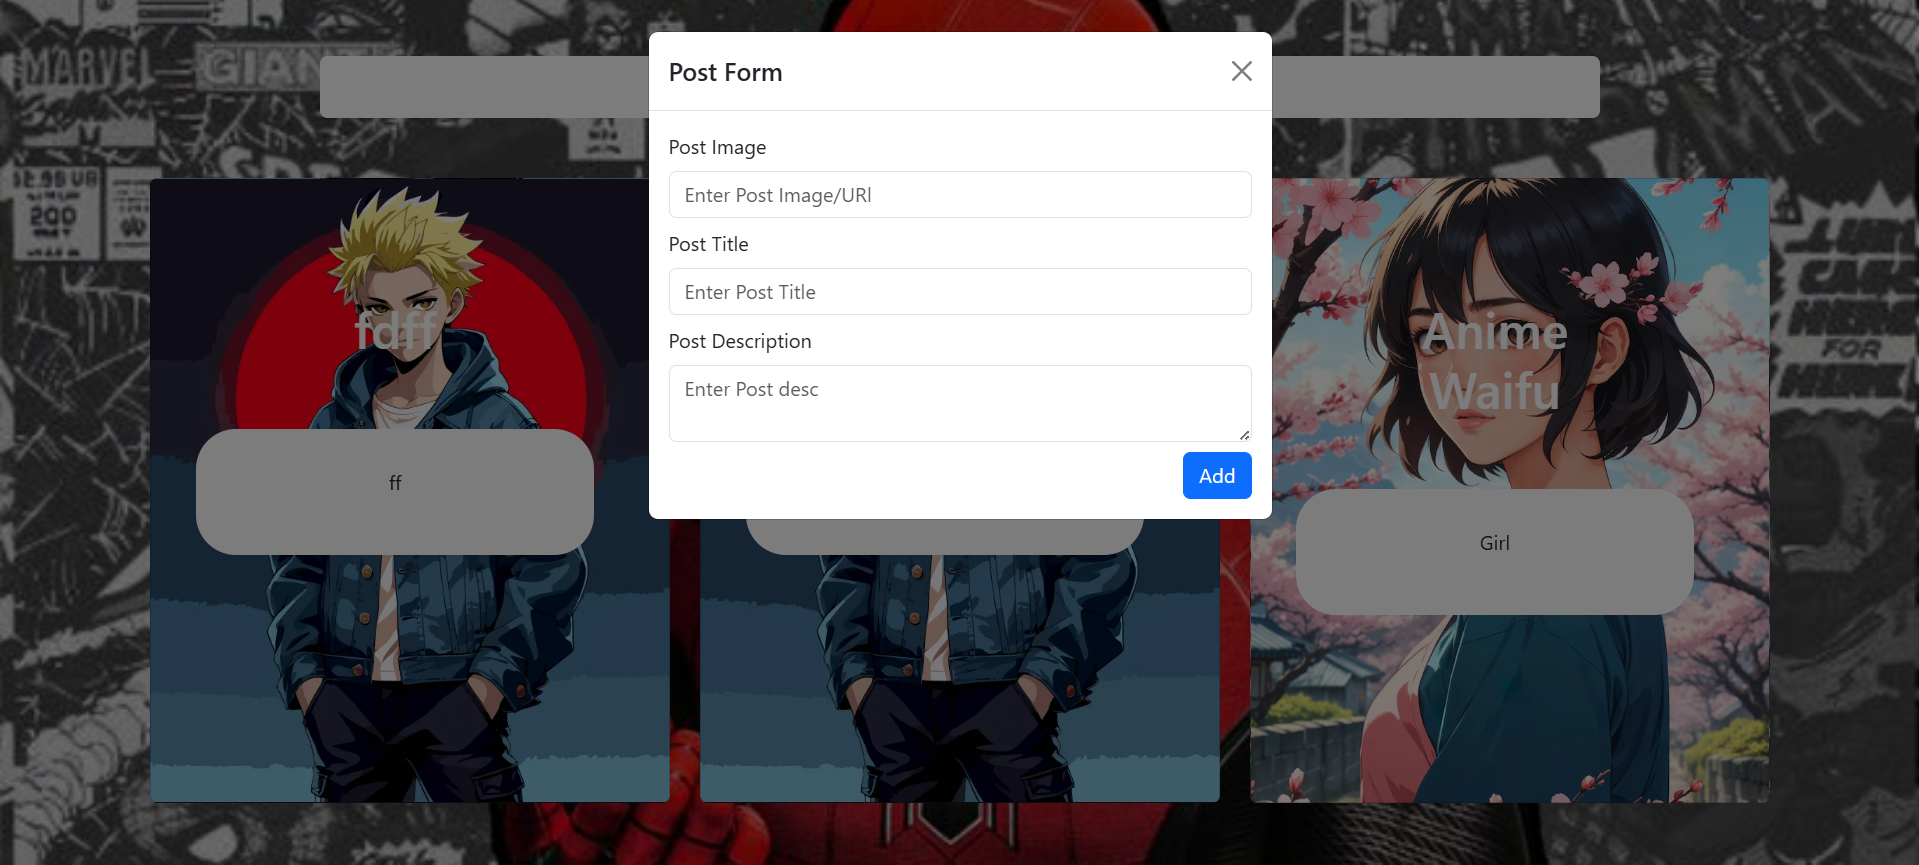
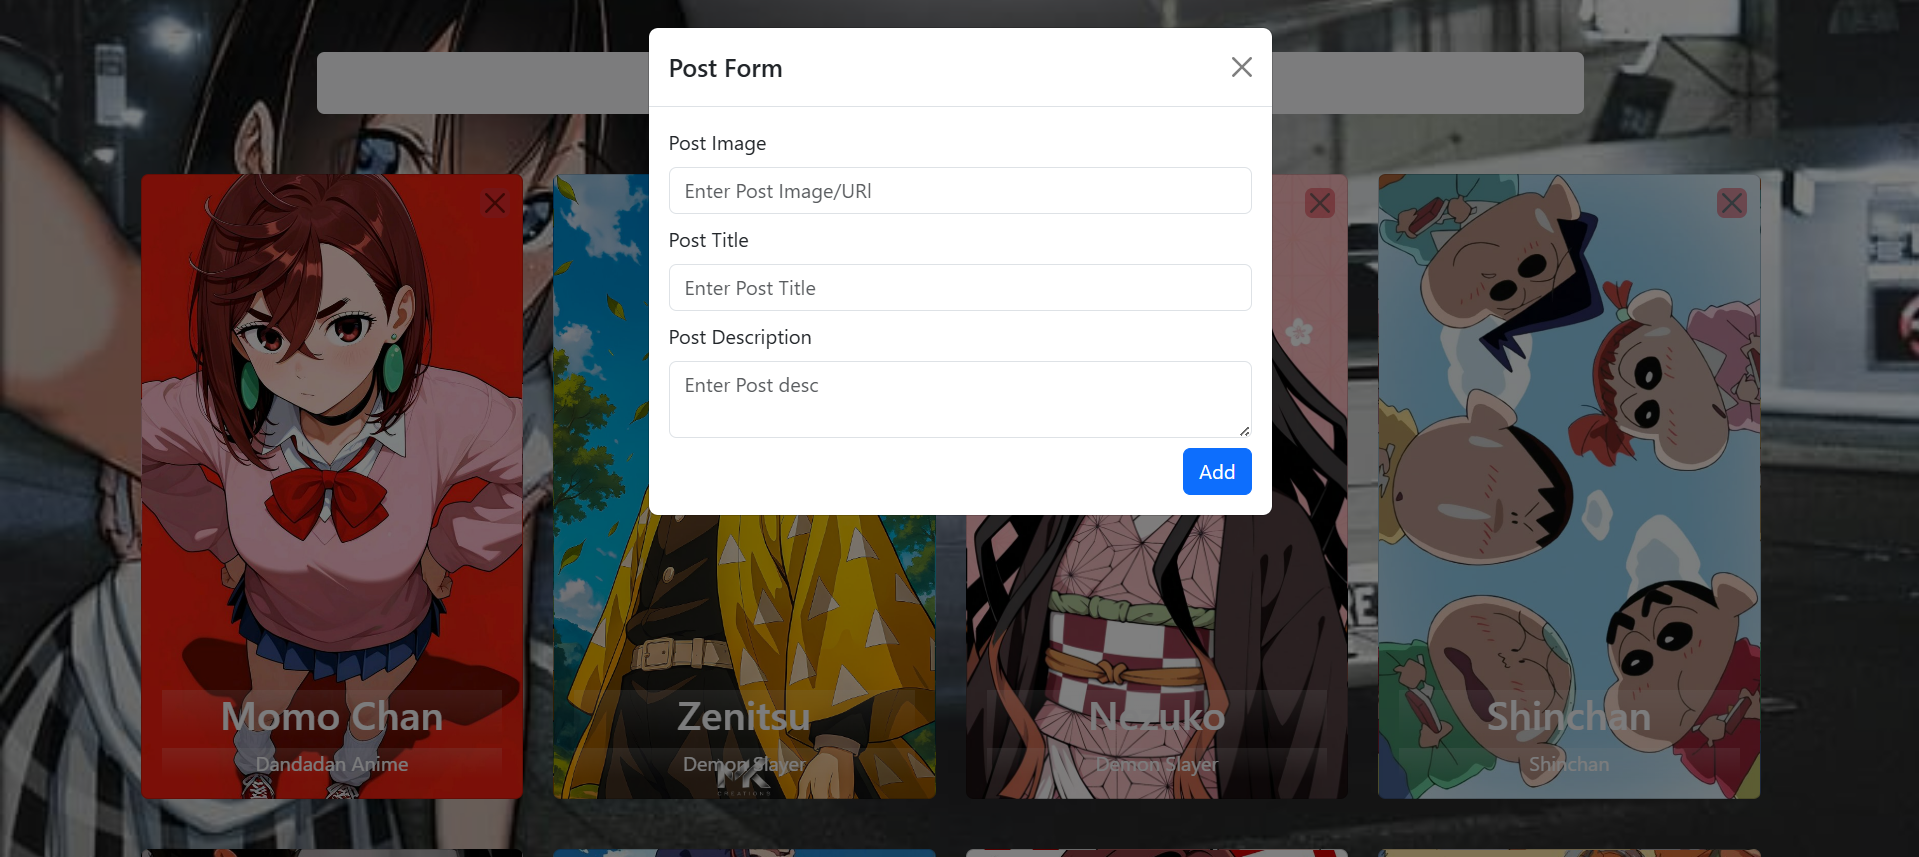
React with Local Storage

diff --git a/src/Pages/Home.jsx b/src/Pages/Home.jsx
@@ -1,6 +1,9 @@
 import React, { useEffect, useState } from 'react'
-import { useForm } from 'react-hook-form'
+import { set, useForm } from 'react-hook-form'
 import '../assets/css/home.css'
+import { v4 as uuidv4 } from 'uuid';
+import Footer from './Footer';
+// import SweetAlert2 from 'react-sweetalert2';
 
 const Home = () => {
 
@@ -11,8 +14,11 @@ const Home = () => {
     const PostList = JSON.parse(localStorage.getItem("Post")) || []
     setPost(PostList)
   },[])
-
+  
   function addPost(data){
+    const id = uuidv4();
+    data.id = id
+    console.log(data)
       if(post.length === 0){
         const newData = [data]
         setPost(newData)
@@ -26,66 +32,76 @@ const Home = () => {
       }
 
   }
+
+  function trashPost(id){
+    if(confirm("Do You Delete This Post...?")){
+      const newData = post.filter((ele)=>{
+        return ele.id !== id
+      })
+      setPost(newData)
+      localStorage.setItem("Post",JSON.stringify(newData))
+    }
+
+  }
   return (
     <>
-    <section className="home">
-      <div className='pt-5'>
-        <div className='col-lg-8 m-auto mb-5 bg-light rounded-2'>
-          <button className='w-100 btn fs-4 text-capitalize' data-bs-toggle="modal" data-bs-target="#staticBackdrop">add new post </button>
-        </div>
+    {/* Background */}
+    <section className="home"></section>
+    {/* Background */}
 
-        <div className="container">
-          <div className="row">
-            {
-              post.map(ele =>
-                <div className="col-lg-4">              
-                  <div className="card p-" style={{backgroundImage: `url(${ele.profile})`, height:'500px', backgroundSize: "cover" , backgroundPosition:'center'}}>
-                    <button className='btn bg-danger btn-close position-absolute' style={{right:'10px',top:"10px"}}></button>
-                    <div className="row w-100 p-5">
-                      <div className="col text-center justify-content-end rounded-5">
-                        <h1 className='text-light '>{ele.title}</h1>
-                      </div>
-                    </div>
-                    <div className="row w-100 h-50 ">
-                      <div className="col bg-light h-50 text-center align-content-center rounded-5">
-                        <p>{ele.desc}</p>
-                      </div>
-                    </div>
+    <div className='pt-5'>
+      <div className='col-lg-8 m-auto mb-5 bg-light rounded-2'>
+        <button className='w-100 btn fs-4 text-capitalize' data-bs-toggle="modal" data-bs-target="#staticBackdrop">add new post </button>
+      </div>
+
+      <div className="container">
+        <div className="row g-4">
+          {
+            post.map(ele =>
+              <div className="col col-sm-5 col-md-4 col-lg-3 mb-3">              
+                <div className="card" style={{backgroundImage: `url(${ele.profile})`, height:'500px', backgroundSize: "cover" , backgroundPosition:'center'}}>
+                  <button className='btn bg-danger btn-close position-absolute' onClick={()=>{trashPost(ele.id)}} style={{right:'10px',top:"10px"}}></button>
+                  <div className='position-absolute bottom-0 px-3 text-center w-100'>
+                    <h2 className='text-center w-100 text-light bg-gradient d-block text-capitalize'>{ele.title}</h2>
+                    <p className='text-light bg-gradient text-capitalize'>{ele.desc}</p>
                   </div>
                 </div>
-              )
-            }
-          </div>
+              </div>
+            )
+          }
         </div>
+      </div>
 
 
-        {/* Modal */}
-        <div className="modal fade" id="staticBackdrop" data-bs-backdrop="static" data-bs-keyboard="false" tabindex="-1" aria-labelledby="staticBackdropLabel" aria-hidden="true">
-          <div className="modal-dialog">
-            <div className="modal-content">
-              <div className="modal-header">
-                <h1 className="modal-title fs-5 text-capitalize" id="staticBackdropLabel">post form</h1>
-                <button type="button" className="btn-close" data-bs-dismiss="modal" aria-label="Close"></button>
-              </div>
-              <div className="modal-body">
-                <form onSubmit={handleSubmit(addPost)}>
-                  <label htmlFor="image" className='form-label text-capitalize'>post image</label>
-                  <input type="url" {...register("profile")} className='form-control mb-2' placeholder='Enter Post Image/URl' id='image' />
-                  <label htmlFor="title" className='form-label text-capitalize'>post title</label>
-                  <input type="text" {...register("title")} className='form-control mb-2' placeholder='Enter Post Title' id='title' />
-                  <label htmlFor="desc" className='form-label text-capitalize'>post description</label>
-                  <textarea type="text" {...register("desc")} className='form-control mb-2' placeholder='Enter Post desc' id='desc' />
-                  <div className="text-end">
-                    <button type="submit" className="btn btn-primary text-capitalize">add</button>
-                  </div>
-                </form>
-              </div>
+      {/* Modal */}
+      <div className="modal fade" id="staticBackdrop" data-bs-backdrop="static" data-bs-keyboard="false" tabindex="-1" aria-labelledby="staticBackdropLabel" aria-hidden="true">
+        <div className="modal-dialog">
+          <div className="modal-content">
+            <div className="modal-header">
+              <h1 className="modal-title fs-5 text-capitalize" id="staticBackdropLabel">post form</h1>
+              <button type="button" className="btn-close" data-bs-dismiss="modal" aria-label="Close"></button>
+            </div>
+            <div className="modal-body">
+              <form onSubmit={handleSubmit(addPost)}>
+                <label htmlFor="image" className='form-label text-capitalize'>post image</label>
+                <input type="url" {...register("profile")} className='form-control mb-2' placeholder='Enter Post Image/URl' id='image' />
+                <label htmlFor="title" className='form-label text-capitalize'>post title</label>
+                <input type="text" {...register("title")} className='form-control mb-2' placeholder='Enter Post Title' id='title' />
+                <label htmlFor="desc" className='form-label text-capitalize'>post description</label>
+                <textarea type="text" {...register("desc")} className='form-control mb-2' placeholder='Enter Post desc' id='desc' />
+                <div className="text-end">
+                  <button type="submit" className="btn btn-primary text-capitalize" data-bs-dismiss="modal">add</button>
+                </div>
+              </form>
             </div>
           </div>
         </div>
       </div>
-    </section>
+      {/* End Model */}
+    </div>
+    <Footer/>
     </>
+
   )
 }
 

diff --git a/src/Pages/Footer.jsx b/src/Pages/Footer.jsx
@@ -1,0 +1,13 @@
+import React from 'react'
+
+const Footer = () => {
+  return (
+    <>
+        <div className="footer w-100 bg-dark text-light text-center p-1">
+            <p>developed by <a href="https://github.com/mihir183" target='_blank' className='text-light text-decoration-none'>@mihir183</a></p>        
+        </div> 
+    </>
+  )
+}
+
+export default Footer

diff --git a/src/assets/css/home.css b/src/assets/css/home.css
@@ -6,9 +6,12 @@
 
 .home{
   height: 100vh;
+  width: 100%;
   background-image: url("../images/back4.png");
   background-repeat: no-repeat;
   background-size: cover;
   background-position: center;
   padding-top: 0!important;
+  position: fixed;
+  z-index: -99999999;
 }
